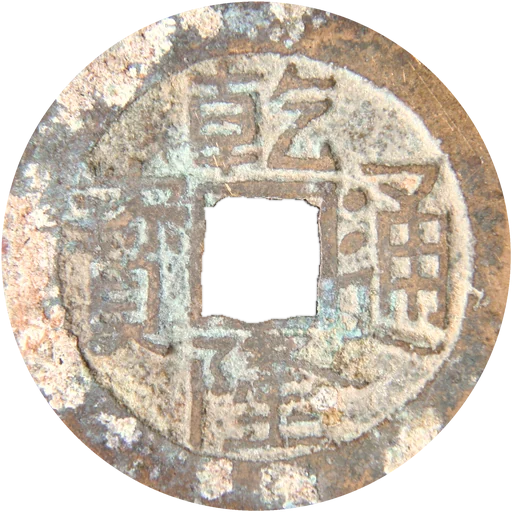
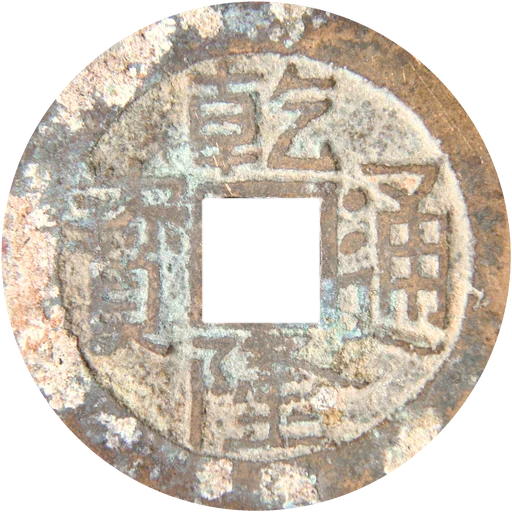
铜钱贴图：射线法稳健定圆、方孔按外接矩形填成干净方形、c 钱手动修正

diff --git a/apps/web/scripts/coin-cut.py b/apps/web/scripts/coin-cut.py
@@ -116,7 +116,20 @@ def cut(img, cx, cy, r):
     if binary.getpixel((best[1], best[2])) == 0:
         ImageDraw.floodfill(binary, (best[1], best[2]), 128)
     hole = binary.point(lambda p: 0 if p == 128 else 255)
-    hole = hole.filter(ImageFilter.MinFilter(9)).filter(ImageFilter.MaxFilter(9))  # 闭运算：填平孔里的亮线
+    # 开运算切断漏到孔外锈蚀暗区的细连接，再闭运算填平孔里的亮线
+    hole = hole.filter(ImageFilter.MaxFilter(9)).filter(ImageFilter.MinFilter(9))
+    hole = hole.filter(ImageFilter.MinFilter(9)).filter(ImageFilter.MaxFilter(9))
+    # 孔不可能超出中心 34% 的方框
+    lim = Image.new("L", (SIZE, SIZE), 255)
+    q0 = int(SIZE * 0.33)
+    q1 = int(SIZE * 0.67)
+    lim.paste(hole.crop((q0, q0, q1, q1)), (q0, q0))
+    # 方孔就是方的：用泛洪区域的外接矩形填一个干净的方孔（孔里的布纹亮线一并盖掉）
+    inv = lim.point(lambda p: 255 - p)
+    bb = inv.getbbox()
+    hole = Image.new("L", (SIZE, SIZE), 255)
+    if bb:
+        ImageDraw.Draw(hole).rounded_rectangle((bb[0] + 1, bb[1] + 1, bb[2] - 1, bb[3] - 1), radius=3, fill=0)
     hole = hole.filter(ImageFilter.MaxFilter(3)).filter(ImageFilter.GaussianBlur(0.7))
     alpha = Image.composite(alpha, Image.new("L", (SIZE, SIZE), 0), hole)
 
